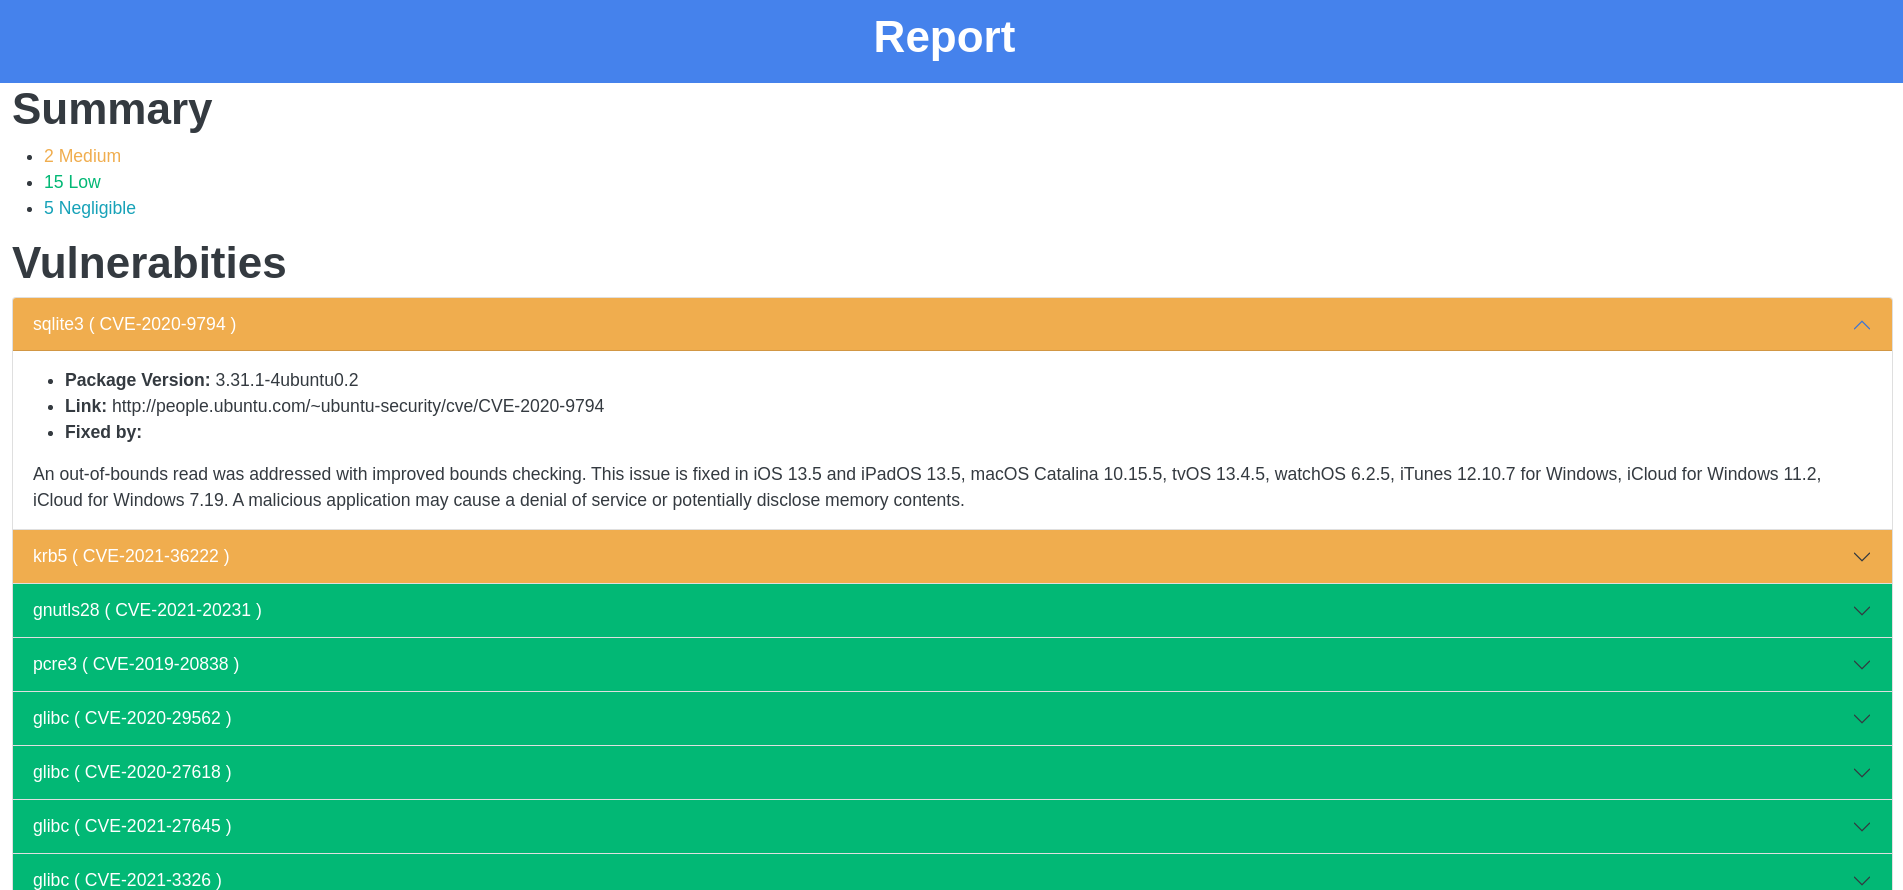
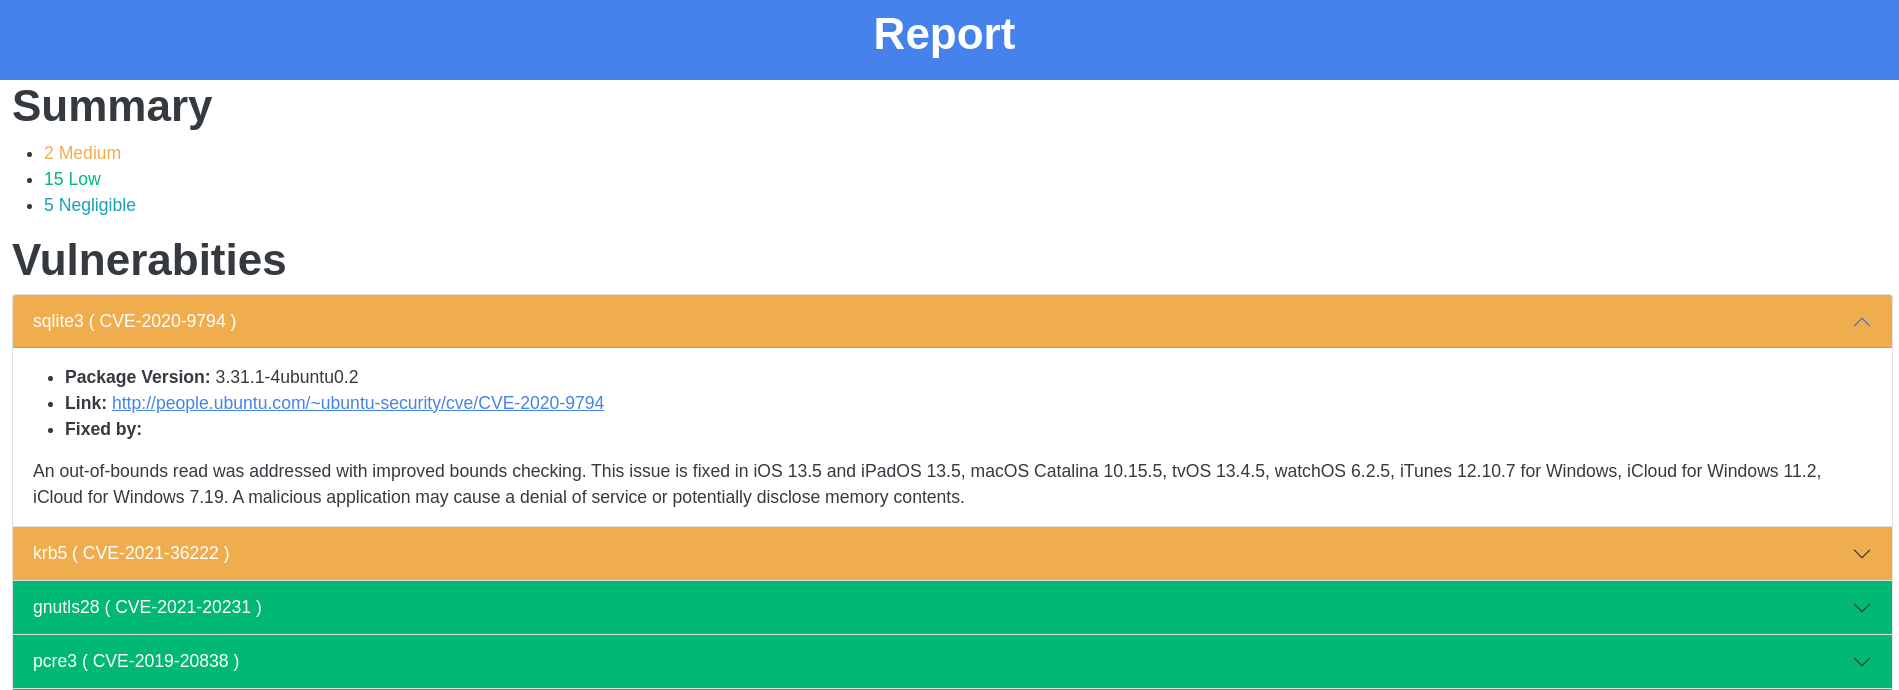
Fixed link reference

diff --git a/clairson2html.js b/clairson2html.js
@@ -18,7 +18,7 @@ jsonReport.vulnerabilities.forEach((vul,i) => {
             <div class="accordion-body">
                 <ul>
                     <li><strong>Package Version:</strong> ${vul.featureversion}</li>
-                    <li><strong>Link:</strong> ${vul.link}</li>
+                    <li><strong>Link:</strong> <a href="${vul.link}">${vul.link}</a></li>
                     <li><strong>Fixed by:</strong> ${vul.fixedby}</li>
                 </ul>
                 ${vul.description}
